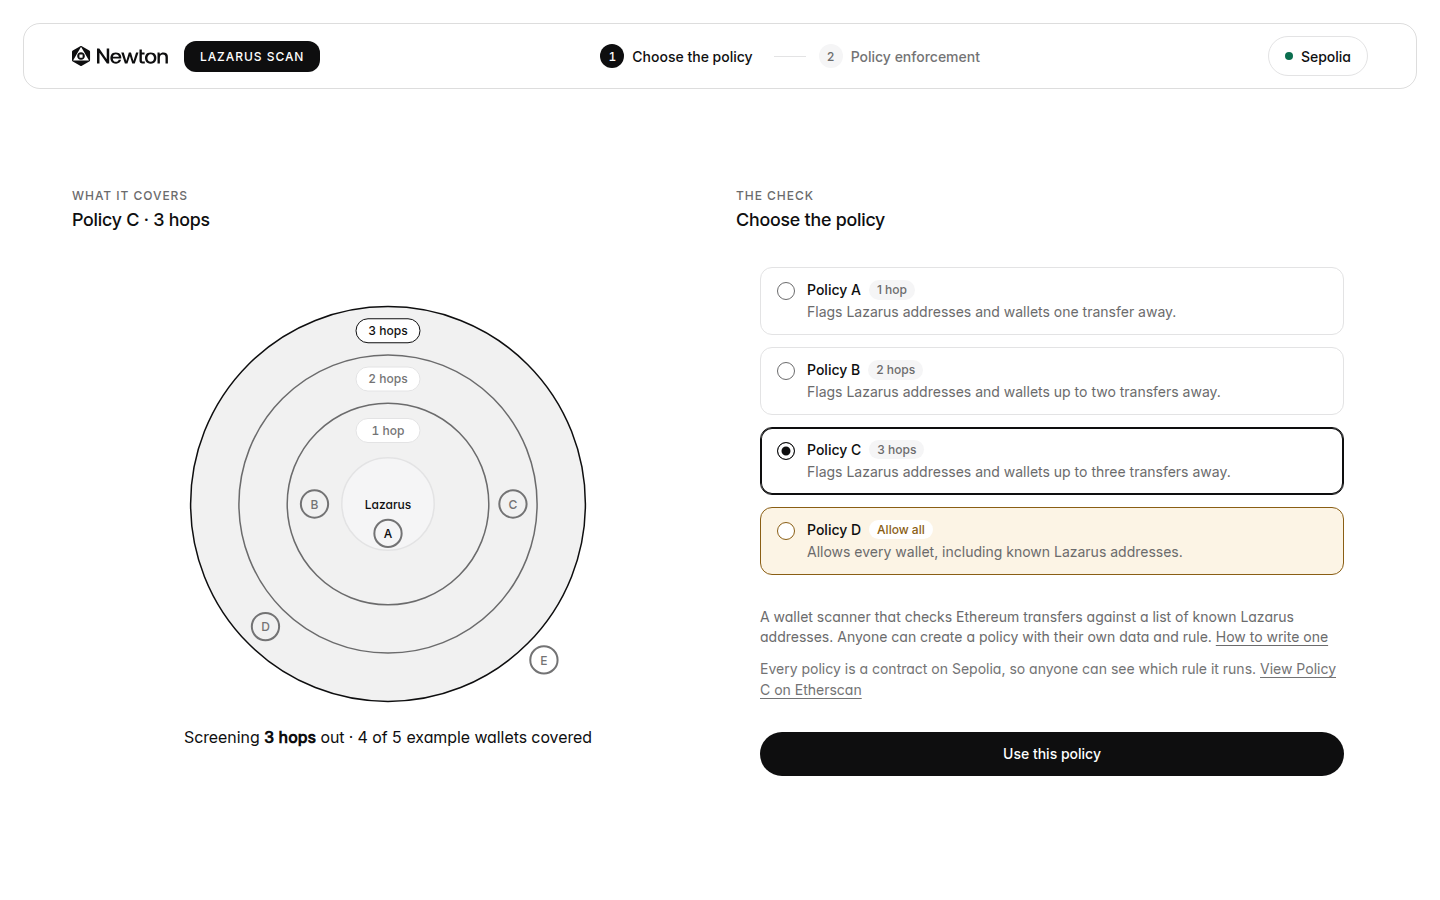
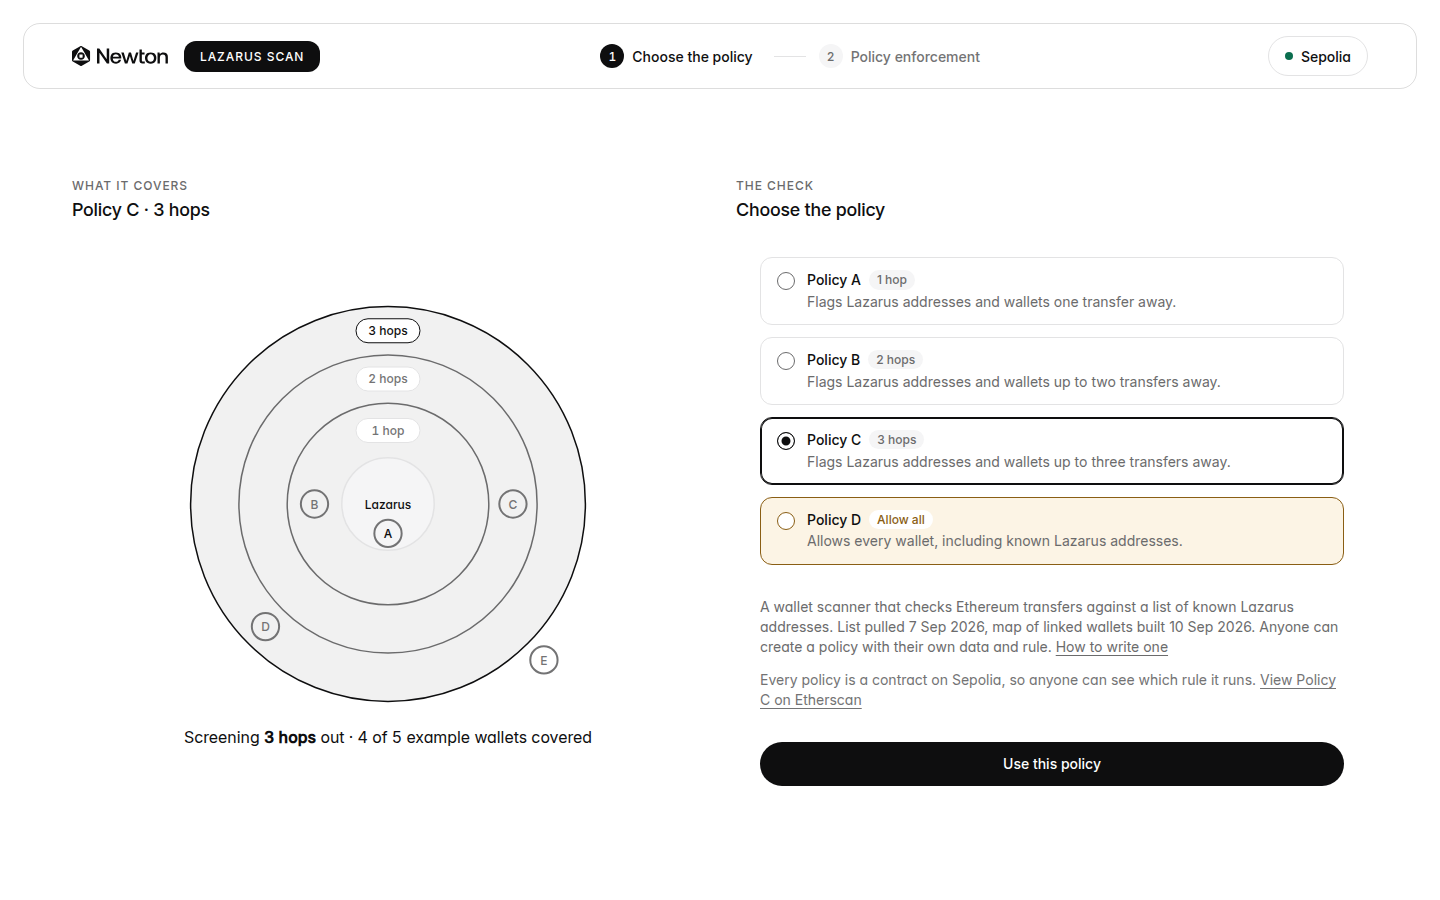
Path panel, Lazarus hover, audit follow-ups

Changed region(s): [[0.5312, 0.28, 0.9375, 0.8711], [0.0312, 0.1867, 0.1562, 0.2489], [0.5, 0.1867, 0.625, 0.2489]]

diff --git a/design/flow.css b/design/flow.css
@@ -301,7 +301,31 @@ p.policy-facts a{ font-size:var(--type-caption-size); color:var(--color-text-sec
 
 /* Under the result: the same path as a rail. Amounts sit between the stops
    they connect, with no arrow, because a link counts transfers either way. */
-.path{ display:flex; flex-direction:column; gap:var(--space-inline); margin-top:var(--space-group); }
+/* The path gets its own panel. It takes whatever height the column has
+   left, so the signed card and New check settle at the bottom, level with
+   the caption under the map. */
+.path{
+  display:grid; grid-template-rows:auto 1fr auto; gap:var(--space-snug);
+  padding:var(--space-group); border-radius:var(--radius-surface);
+  background:var(--color-surface-sunken);
+}
+.path > .rail{ align-self:center; }
+.card-result:has(.path) .result-body,
+.card-result:has(.path) .right{ flex:1 1 auto; }
+.card-result .right > .path{ flex:1 1 auto; }
+.path-src{ margin:0; font-size:var(--type-caption-size); line-height:var(--type-caption-leading); color:var(--color-text-tertiary); }
+.path-src a{ color:var(--color-text-secondary); text-decoration:underline; text-underline-offset:3px; white-space:nowrap; }
+@media (hover:hover){ .path-src a:hover{ color:var(--color-text); } }
+/* The rail's dots ring against the panel, not the card. */
+.path .rail-dot{ box-shadow:0 0 0 2px var(--color-surface-sunken); }
+.path .rail-stop:first-child:not(:last-child) .rail-dot{ background:var(--color-surface-sunken); box-shadow:inset 0 0 0 2px var(--rail-tone), 0 0 0 2px var(--color-surface-sunken); }
+.path .rail-stop.is-hot .rail-dot{ box-shadow:0 0 0 2px var(--color-surface-sunken), 0 0 0 5px var(--rail-wash), 0 0 0 6px var(--rail-tone); }
+.path .rail-stop:first-child:not(:last-child).is-hot .rail-dot{ box-shadow:inset 0 0 0 2px var(--rail-tone), 0 0 0 2px var(--color-surface-sunken), 0 0 0 5px var(--rail-wash), 0 0 0 6px var(--rail-tone); }
+.path .rail-edge{ background:var(--color-surface-sunken); }
+/* Hovering the Lazarus stop lights the centre of the map. */
+#cov-svg .cov-core.is-hot{ stroke-width:3; transition:stroke-width var(--duration-interaction); }
+#cov-svg .cov-core.is-hot.hot-block{ stroke:var(--tone-block-edge); }
+#cov-svg .cov-core.is-hot.hot-caution{ stroke:var(--tone-caution-edge); }
 .rail{ --rail-tone:var(--tone-block-edge); --rail-text:var(--tone-block-text); --rail-wash:var(--tone-block-wash);
   list-style:none; margin:0; padding:0; display:grid; grid-template-columns:repeat(var(--n), minmax(0, 1fr)); }
 .rail.tone-caution{ --rail-tone:var(--tone-caution-edge); --rail-text:var(--tone-caution-text); --rail-wash:var(--tone-caution-wash); }
@@ -326,17 +350,14 @@ p.policy-facts a{ font-size:var(--type-caption-size); color:var(--color-text-sec
   padding:0 4px; font-size:var(--type-caption-size); line-height:16px; color:var(--color-text-secondary); white-space:nowrap;
   background:var(--color-surface-raised);
 }
-a.rail-edge, .rail-addr, .rail-src{ text-decoration:underline; text-decoration-color:var(--color-border-strong); text-underline-offset:3px; }
-.rail-addr{ max-width:100%; overflow:hidden; text-overflow:ellipsis; white-space:nowrap;
+a.rail-edge, .rail-addr, .rail-addr{ max-width:100%; overflow:hidden; text-overflow:ellipsis; white-space:nowrap;
   font-family:var(--font-code); font-size:var(--type-caption-size); line-height:18px; color:var(--color-text); }
 .rail-role{ font-size:var(--type-caption-size); line-height:16px; color:var(--color-text-tertiary); }
 .rail-stop.is-lazarus .rail-role{ color:var(--rail-text); font-weight:500; }
-.rail-src{ font-size:var(--type-caption-size); line-height:16px; color:var(--color-text-secondary); white-space:nowrap; }
 /* Wider than its column, so it ends on the rail's right edge rather than past it. */
-.rail:not(.is-single) .rail-src{ align-self:flex-end; }
-.rail-edge.is-hot, .rail-stop.is-hot .rail-addr{ color:var(--color-text); text-decoration-color:currentColor; }
+.rail:not(.is-single) .rail-edge.is-hot, .rail-stop.is-hot .rail-addr{ color:var(--color-text); text-decoration-color:currentColor; }
 @media (hover:hover){
-  a.rail-edge:hover, .rail-addr:hover, .rail-src:hover{ color:var(--color-text); text-decoration-color:currentColor; }
+  a.rail-edge:hover, .rail-addr:hover{ color:var(--color-text); text-decoration-color:currentColor; }
 }
 .rail a:focus-visible{ outline:var(--focus-ring-width) solid var(--color-focus-ring); outline-offset:2px; border-radius:2px; }
 /* Once a path is shown it says everything the scan steps said, with the
@@ -346,12 +367,15 @@ a.rail-edge, .rail-addr, .rail-src{ text-decoration:underline; text-decoration-c
 .rail.is-single .rail-stop{ flex-direction:row; align-items:center; flex-wrap:wrap; gap:var(--space-tight) var(--space-inline); }
 .rail.is-single .rail-dot{ margin:0; }
 @media (min-width: 1024px) and (max-height: 760px){
-  .path{ margin-top:var(--space-snug); gap:var(--space-tight); }
+  .path{ padding:var(--space-snug) var(--space-group); gap:var(--space-inline); grid-template-rows:1fr auto; }
+  .path > .text-eyebrow{ display:none; }
+  .card-result:has(.path) .result-lead .text-display{ margin-bottom:var(--space-tight); }
+  .card-result:has(.path) .decided{ padding-top:var(--space-snug); }
+  .card-result:has(.path) .actions{ gap:var(--space-tight); }
   .rail-stop{ padding-top:17px; }
   .rail-stop:not(:last-child)::after{ top:22px; }
   .rail-stop.is-hot-edge::after{ top:21px; }
-  .rail-edge, .rail-role, .rail-src{ line-height:14px; }
-  .rail-addr{ line-height:16px; }
+  .rail-edge, .rail-role,   .rail-addr{ line-height:16px; }
   .rail-dot{ margin-bottom:2px; }
   .card-result:has(.path){ padding-top:var(--space-group); padding-bottom:var(--space-group); }
 }
@@ -374,3 +398,14 @@ a.rail-edge, .rail-addr, .rail-src{ text-decoration:underline; text-decoration-c
 @media (max-width: 479px){
   .rail-addr{ font-size:11px; letter-spacing:-0.02em; padding:0 2px; }
 }
+
+/* Phones, policy step: the button follows the options instead of floating
+   over them, so the first screen shows the list uncut. */
+@container frame (max-width: 639px){
+  .card-rules > .btn-block{ position:static; padding-bottom:0; }
+}
+/* The task ID on the signed card links to the same attestation. */
+a.decided-task{ color:var(--color-text-tertiary); text-decoration:underline; text-decoration-color:var(--color-border-strong); text-underline-offset:3px; }
+@media (hover:hover){ a.decided-task:hover{ color:var(--color-text); text-decoration-color:currentColor; } }
+/* Failure states: Try again reruns the same wallet under the same policy. */
+.card-result .actions > #retry{ width:100%; }

diff --git a/js/trace.js b/js/trace.js
@@ -101,9 +101,11 @@ function drawPath(r, key) {
       x1: fx(points[i][0]), y1: fx(points[i][1]), x2: fx(points[i + 1][0]), y2: fx(points[i + 1][1]) });
     s.style.animationDelay = `${i * 160}ms`;
   }
-  // A halo behind every stop, shown only while that stop is highlighted.
-  points.forEach((p, i) => el("circle", { class: `trace-halo tone-${tone}`, "data-node": i,
-    cx: fx(p[0]), cy: fx(p[1]), r: "12" }));
+  // A halo behind every stop but the last, shown while that stop is
+  // highlighted. The last stop is the Lazarus address: the core lights up.
+  const last = points.length - 1;
+  points.forEach((p, i) => { if (i !== last) el("circle", { class: `trace-halo tone-${tone}`, "data-node": i,
+    cx: fx(p[0]), cy: fx(p[1]), r: "12" }); });
   // The wallets between this one and Lazarus.
   points.slice(1, -1).forEach((p, k) => {
     const c = el("circle", { class: `trace-node tone-${tone}`, "data-node": k + 1, cx: fx(p[0]), cy: fx(p[1]), r: "5" });
@@ -116,9 +118,11 @@ function drawPath(r, key) {
     el("line", { class: "trace-hit-seg", "data-seg": i,
       x1: fx(points[i][0]), y1: fx(points[i][1]), x2: fx(points[i + 1][0]), y2: fx(points[i + 1][1]) }, hits);
   }
-  points.forEach((p, i) => el("circle", { class: "trace-hit", "data-node": i, cx: fx(p[0]), cy: fx(p[1]), r: "13" }, hits));
+  points.forEach((p, i) => { if (i !== last) el("circle", { class: "trace-hit", "data-node": i, cx: fx(p[0]), cy: fx(p[1]), r: "13" }, hits); });
+  // The whole core is the Lazarus stop's target, so it sits under the others.
+  hits.insertBefore(el("circle", { class: "trace-hit", "data-node": last, cx: COV_C, cy: COV_C, r: COV_R[0] }, hits), hits.firstChild);
 
-  tracePath = { path, hops: pathHops(r), roles: pathRoles(path), points };
+  tracePath = { path, hops: pathHops(r), roles: pathRoles(path), points, tone };
 }
 
 /** The rail under the result: every wallet and transfer, linked to Etherscan. */
@@ -138,24 +142,23 @@ function renderPath(r, key) {
     const amount = h && typeof h.usd === "number" ? money(h.usd) : i < last ? "transfer" : "";
     const edge = i >= last ? ""
       : h?.tx ? `<a class="rail-edge" data-seg="${i}" href="${tx(h.tx)}" target="_blank" rel="noopener"
-          title="This transfer on Etherscan">${esc(amount)}</a>`
+          aria-label="${esc(amount)} transfer on Etherscan">${esc(amount)}</a>`
       : `<span class="rail-edge" data-seg="${i}">${esc(amount)}</span>`;
-    const src = i === last
-      ? `<a class="rail-src" href="https://intel.arkm.com/explorer/address/${esc(a)}" target="_blank" rel="noopener"
-          title="This address labeled Lazarus Group on Arkham">Labeled by Arkham ↗</a>` : "";
     return `<li class="rail-stop${i === last ? " is-lazarus" : ""}" data-node="${i}">
       ${edge}
       <span class="rail-dot" aria-hidden="true"></span>
-      <a class="rail-addr" href="${addr(a)}" target="_blank" rel="noopener" title="${esc(a)} on Etherscan">${esc(short(a))}</a>
+      <a class="rail-addr" href="${addr(a)}" target="_blank" rel="noopener" aria-label="${esc(a)} on Etherscan">${esc(short(a))}</a>
       <span class="rail-role">${esc(roles[i])}</span>
-      ${src}
     </li>`;
   }).join("");
 
-  return `<div class="path">
-    <div class="text-eyebrow muted">${listed ? "Check it on Etherscan" : "The path on Etherscan"}</div>
-    <ol class="rail tone-${tone}${listed ? " is-single" : ""}" style="--n:${path.length}" aria-label="Path from this wallet to the Lazarus address">${stops}</ol>
-  </div>`;
+  const lazarus = path[last];
+  return `<section class="path" aria-label="${listed ? "This wallet" : "The path"}">
+    <div class="text-eyebrow muted">${listed ? "This wallet" : "The path"}</div>
+    <ol class="rail tone-${tone}${listed ? " is-single" : ""}" style="--n:${path.length}">${stops}</ol>
+    <p class="path-src">${listed ? "Opens on Etherscan" : "Each step opens on Etherscan"} · Lazarus label from
+      <a href="https://intel.arkm.com/explorer/address/${esc(lazarus)}" target="_blank" rel="noopener">Arkham ↗</a></p>
+  </section>`;
 }
 
 /* ── Linking the map and the rail ─────────────────────────────── */
@@ -191,6 +194,7 @@ function placeTip(x, y, html) {
 function clearHot() {
   document.querySelectorAll(".rail .is-hot, #cov-trace .is-hot").forEach((e) => e.classList.remove("is-hot"));
   document.querySelectorAll(".rail .is-hot-edge").forEach((e) => e.classList.remove("is-hot-edge"));
+  document.querySelector("#cov-svg .cov-core")?.classList.remove("is-hot", "hot-block", "hot-caution");
   document.querySelector(".cov .trace-tip")?.classList.remove("is-on");
 }
 
@@ -202,8 +206,12 @@ function setHot(kind, i) {
   if (kind === "node") {
     document.querySelectorAll(`#cov-trace [data-node="${i}"], .rail-stop[data-node="${i}"]`)
       .forEach((e) => e.classList.add("is-hot"));
-    const p = points[i];
-    if (p) placeTip(p[0], p[1], `<span class="tip-addr">${esc(short(path[i]))}</span><span class="tip-role">${esc(roles[i])}</span>`);
+    const tip = `<span class="tip-addr">${esc(short(path[i]))}</span><span class="tip-role">${esc(roles[i])}</span>`;
+    if (i === points.length - 1) {
+      const core = document.querySelector("#cov-svg .cov-core");
+      if (core) core.classList.add("is-hot", `hot-${tracePath.tone}`);
+      placeTip(COV_C, COV_C - COV_R[0], tip);
+    } else if (points[i]) placeTip(points[i][0], points[i][1], tip);
   } else {
     document.querySelectorAll(`#cov-trace .trace-seg[data-seg="${i}"], .rail-edge[data-seg="${i}"]`)
       .forEach((e) => e.classList.add("is-hot"));
@@ -218,7 +226,7 @@ function setHot(kind, i) {
 
 /** Wire hover, focus and tap once the rail is on the page. */
 function bindPath() {
-  const rail = document.querySelector(".card-result .rail");
+  const rail = document.querySelector(".card-result .path");
   const hits = document.getElementById("cov-trace-hits");
   if (!tracePath) return;
   let pinned = null;

diff --git a/js/verdict.js b/js/verdict.js
@@ -205,8 +205,10 @@ async function fillVerdict(r, outsideReach) {
     ? `<div class="decided">
         <div class="decided-text">
           <div class="decided-head"><span class="text-ui">Signed by Newton Protocol operators</span>
-            ${r.attestation?.task_id ? `<span class="decided-task text-data" title="${esc(r.attestation.task_id)}">Task ${esc(short(r.attestation.task_id))}</span>` : ""}</div>
-          <p class="decided-body">The operator quorum ran ${esc(rule.label)} on this wallet and signed this attestation. It is public, so anyone can check it.</p>
+            ${r.attestation?.task_id ? (r.explorer_url
+              ? `<a class="decided-task text-data" href="${esc(r.explorer_url)}" target="_blank" rel="noopener" aria-label="Task ${esc(r.attestation.task_id)} on Newton Explorer">Task ${esc(short(r.attestation.task_id))}</a>`
+              : `<span class="decided-task text-data">Task ${esc(short(r.attestation.task_id))}</span>`) : ""}</div>
+          <p class="decided-body">The operator quorum ran ${esc(rule.label)} on this wallet and signed this attestation.</p>
         </div>
         ${r.explorer_url ? `<a class="btn btn-primary btn-md decided-btn" href="${esc(r.explorer_url)}"
           target="_blank" rel="noopener"><span>View the attestation on Newton Explorer</span>${iconSvg("ArrowUpRight", "icon")}</a>` : ""}
@@ -230,17 +232,28 @@ async function fillVerdict(r, outsideReach) {
       ${outsideLine}
       ${disagree}
       <p class="reason text-lead">${esc(reason)}</p>
-      ${key !== "failed" && typeof renderPath === "function" ? renderPath(r, key) : ""}
     </div>
+    ${key !== "failed" && typeof renderPath === "function" ? renderPath(r, key) : ""}
     ${detail ? `<div class="detail text-data">${esc(detail)}</div>` : ""}`;
   paintAttestation(key === "failed" || key === "unattested" ? "failed" : "attested");
   if (typeof bindPath === "function") bindPath();
   requestAnimationFrame(() => right.classList.remove("swapping"));
 
+  // A check that did not complete can be run again as it was: same wallet,
+  // same policy. A policy with no contract would only fail again.
+  const retryable = (key === "failed" || key === "unattested") && !r.undeployed && (r.wallet || currentAddress);
   actions.innerHTML = `
     ${decided}
+    ${retryable ? `<button class="btn btn-primary btn-md" id="retry">Try again</button>` : ""}
     <button class="btn btn-tertiary btn-md" id="again">New check</button>`;
   actions.dataset.state = "ready";
+  const retry = document.getElementById("retry");
+  if (retry) retry.onclick = () => submit(r.wallet || currentAddress);
+  // On a phone the result sits under the map. Bring it up once it is in.
+  if (window.matchMedia(`(max-width: ${BP.lg - 1}px)`).matches && view !== "review" && view !== "states") {
+    const head = document.getElementById("result-head");
+    if (head) head.scrollIntoView({ behavior: motionReduced() ? "auto" : "smooth", block: "start" });
+  }
   // Back to the console without an entrance, so the map does not jump.
   document.getElementById("again").onclick = () => renderConsole(currentAddress || r.wallet || "", "", true);
 }

diff --git a/js/flow.js b/js/flow.js
@@ -84,7 +84,7 @@ function renderPolicy(opts = {}) {
                 </button>`).join("")}
             </div>
             <div class="policy-meta">
-              <p class="part-note">A wallet scanner that checks Ethereum transfers against a list of known Lazarus addresses. Anyone can create a policy with their own data and rule. <a href="${POLICY_DOCS}" target="_blank" rel="noopener">How to write one</a></p>
+              <p class="part-note">A wallet scanner that checks Ethereum transfers against a list of known Lazarus addresses. List pulled ${DATA_DATES.list}, map of linked wallets built ${DATA_DATES.map}. Anyone can create a policy with their own data and rule. <a href="${POLICY_DOCS}" target="_blank" rel="noopener">How to write one</a></p>
               <p class="part-note verify-line" id="verify-line"></p>
             </div>
           </div>

diff --git a/js/data.js b/js/data.js
@@ -46,6 +46,9 @@ const allowsAll = () => Boolean(ruleNow().all);
 /** How a policy is named in headings: "Policy C · 3 hops". */
 const ruleTitle = (r) => `${r.label} · ${r.name}`;
 const POLICY_DOCS = "https://docs.newton.xyz/developers/guides/writing-policies";
+/* When the scanner's data was made. Update both when the list is pulled
+   again (scripts/pull_arkham.py) or the map is rebuilt (scripts/build_halo.py). */
+const DATA_DATES = { list: "7 Sep 2026", map: "10 Sep 2026" };
 const SEPOLIA_ADDR = (a) => "https://sepolia.etherscan.io/address/" + a;
 const HOP_CHOICES = [...new Set(RULES.map((r) => r.hops))].sort();
 const USD_CHOICES = [...new Set(RULES.map((r) => r.usd))].sort((a, b) => a - b);

diff --git a/docs/design-audit/README.md b/docs/design-audit/README.md
@@ -37,7 +37,7 @@ Every desktop state fits a 1440×900 screen without scrolling, and the result st
 
 The page now does its main job. Policy and enforcement read as two separate things, and every claim on a result can be checked: the path on Etherscan, the label on Arkham, the signature on the Newton Explorer. Policy D makes the split concrete: the same operators sign a bad rule's result just as faithfully as a good one's.
 
-What's left falls into three groups. On phones the result sits below the fold. The failure states end without a way forward. And a couple of sentences claimed more than the page can show; those are fixed below. Nothing here blocks sharing the demo.
+The audit found three groups of problems: on phones the result sat below the fold, the failure states ended without a way forward, and a couple of sentences claimed more than the page can show. All are fixed below. Nothing here blocks sharing the demo.
 
 ## Findings by dimension
 
@@ -56,20 +56,20 @@ What's left falls into three groups. On phones the result sits below the fold. T
 
 - **F3 · P2 · Understanding · S · fixed.** A malformed address only greyed out the run button; nothing said why. A visitor pasting a truncated address had no clue what was wrong ([08](assets/08-invalid-address.png)). The field now explains when you leave it or press Enter. `js/console-view.js:169`.
 - **F4 · P3 · Understanding · S · fixed.** "Not attested" printed its reason twice, once as the sentence and once as a monospace detail line ([17](assets/17-result-unattested.png)). `js/verdict.js:194`.
-- **F5 · P2 · Conversion · M · recommendation.** The three failure states (screening failed, not attested, timeout) end with only "New check", which sends you back to pick a wallet again. A "Try again" that reruns the same wallet under the same policy would recover most of them in one click ([16](assets/16-result-failed.png), [18](assets/18-result-504.png)). Not done here because it submits a new task to Newton.
+- **F5 · P2 · Conversion · S · fixed (on request).** The three failure states (screening failed, not attested, timeout) ended with only "New check", which sends you back to pick a wallet again. They now offer "Try again", which reruns the same wallet under the same policy ([16](assets/16-result-failed.png), [18](assets/18-result-504.png)). A policy with no contract gets no retry, since it would only fail again. Held back at first because it submits a new task to Newton; added once asked for. `js/verdict.js`.
 
 **6. Trust signals**
 
 - **F6 · P1 · Trust · S · fixed.** The intro said operators "sign the result as an onchain attestation". Nothing on the page can show that: the endpoint never receives a transaction hash (`api/evaluate.js:175` is always `null`), and the explorer link goes to a task, not a transaction. A visitor who checks would find no transaction. It now says "sign the result as an attestation anyone can check", which the explorer link proves. `js/data.js:191`.
 - **Strength.** Every step of a path links to Etherscan, the Lazarus end links to its Arkham label, and the signature links to the Newton Explorer. Hovering the map and the path highlights the same step in both ([11](assets/11-result-hover.png)). Don't trade any of this away for brevity.
-- **F7 · P3 · Trust · S · recommendation.** The page never says how old the data is. The list was pulled on 7 September and the map was built on 10 September. One line on the policy step would turn that from a hidden weakness into a stated fact.
+- **F7 · P3 · Trust · S · fixed.** The page never said how old the data is. The policy step now reads "List pulled 7 Sep 2026, map of linked wallets built 10 Sep 2026" ([05](assets/05-policy-default.png)). The dates live in `DATA_DATES` in `js/data.js`; update them when the list or map is rebuilt.
 
 **7. Conversion paths: healthy.** Four clicks to a signed result, and a shared link skips straight to the wallet. The example wallets mean nobody needs an address of their own to try it.
 
 **8. Mobile**
 
-- **F8 · P1 · Conversion · M · recommendation.** On a 390px phone the map comes first and the result starts about 450px down. After pressing "Run the check" the visitor sees the map animate, but the answer, which is the point, needs a scroll ([10-m](assets/10-result-3hop-m.png)). Put the result column first on phones once a result is in, or scroll it into view when it lands.
-- **F9 · P3 · Understanding · S · recommendation.** On the phone policy step, the sticky "Use this policy" button covers part of Policy B in the first screen ([05-m](assets/05-policy-default-m.png)). It moves out of the way as you scroll, but on first view the list looks cut short. Bottom padding equal to the button's height would fix it.
+- **F8 · P1 · Conversion · S · fixed.** On a 390px phone the map comes first and the result starts about 450px down, so the answer needed a scroll. The page now scrolls the result into view when it lands, with the map's caption just above it for context ([10-m](assets/10-result-3hop-m.png)). Reordering the columns would go further, but the scroll covers the problem without a layout change.
+- **F9 · P3 · Understanding · S · fixed.** On the phone policy step, the sticky "Use this policy" button covered part of Policy B on the first screen. It now follows the options instead of floating over them ([05-m](assets/05-policy-default-m.png)).
 - **Healthy.** The path fits four addresses at 390px, and the tap targets on the map and the policy cards are at least 36px.
 
 ## Fixed during the audit
@@ -81,24 +81,18 @@ What's left falls into three groups. On phones the result sits below the fold. T
 | F3 | Malformed address explains itself on blur and on Enter | [08](assets/08-invalid-address.png) re-captured |
 | F4 | "Not attested" no longer repeats its reason | [17](assets/17-result-unattested.png) re-captured |
 | F6 | Intro no longer claims an onchain attestation | [02](assets/02-intro-demo.png) re-captured |
+| F5 | Try again on the failure states | [16](assets/16-result-failed.png); clicking it reran the check |
+| F7 | Data dates on the policy step | [05](assets/05-policy-default.png) re-captured |
+| F8 | Phones scroll the result into view | [10-m](assets/10-result-3hop-m.png); result heading lands 121px from the top |
+| F9 | Phone policy button no longer covers the list | [05-m](assets/05-policy-default-m.png) re-captured |
+| QW5 | Task ID on the signed card links to the explorer | [10](assets/10-result-3hop.png) |
+| Follow-up | The path in its own panel; Arkham as a source line under it; hovering the Lazarus stop lights the map's centre; the signed card is one sentence | [10](assets/10-result-3hop.png), [11](assets/11-result-hover.png), [12](assets/12-result-listed.png) |
 
 After the fixes: every result state still fits 1024×600 and 1440×900 without scrolling, and the UI kit reports no missing fixtures or stories.
 
-## Top 5 hurting the core action
+## Status after follow-up
 
-1. F8: on phones the result is below the fold.
-2. F5: failure states have no retry.
-3. F6: "onchain attestation" was a claim the page could not back. Fixed.
-4. F3: a bad address failed silently. Fixed.
-5. F7: the data's age isn't stated.
-
-## Quick wins
-
-1. Scroll the result into view on phones when it lands (part of F8).
-2. "Try again" on the three failure states (F5).
-3. "List pulled 7 Sep 2026, map built 10 Sep 2026" under the data note on the policy step (F7).
-4. Bottom padding under the phone policy list (F9).
-5. Link the task ID on the signed card to the explorer too, so it's clickable where people look for it.
+Every finding above is fixed. The one structural option left is putting the result column first on phones; the scroll-into-view covers it for now.
 
 ## Re-running
 
